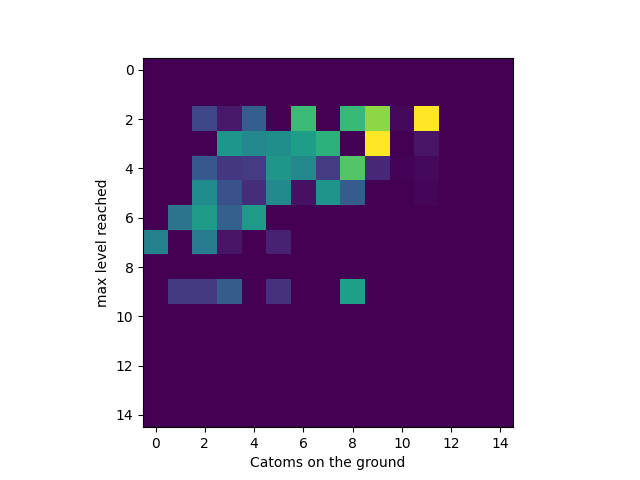
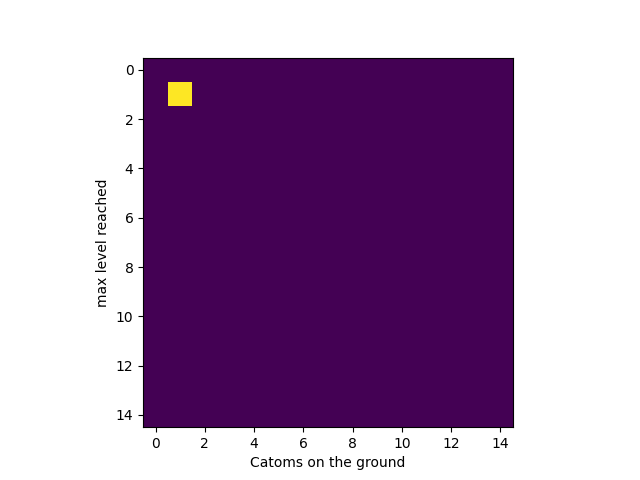
amas sans test

diff --git a/project/main.py b/project/main.py
@@ -1,3 +1,4 @@
+import math
 import socket
 import numpy as np
 import time
@@ -155,7 +156,9 @@ class Master:
             # TODO: ici, il faut lancer une itération d'entrainement, puis remplacer data par la matrice des poids du nouveau réseau à éval
             #data = self.generate_random_weights(2, 25, 125, 27, False)
             #data = self.generate_weights()
-            data,_ = self.map_elites.get_custom_individual(4, 6) # sert à récupérer un individu spécifique dans la map
+            #data,_ = self.map_elites.get_custom_individual(4, 6) # sert à récupérer un individu spécifique dans la map
+            data = self.map_elites.get_next_individual()
+
             # data = load_weights('logs/weights_error.log')
             
             self.send_data(connection, str(data.size).encode(), "SIZE")
@@ -188,6 +191,8 @@ class Master:
             print("Robot |", number_robot_level)
             print("Number of robots on base :", number_robot_level[0])
             print("Max height :", level[-1])
+            print("Number of amas", len(self.amas_robot(received_data)))
+            print("Amas", self.amas_robot(received_data))
 
             x_coord = min(level[-1],15)
             y_coord = min(number_robot_level[0],15)
@@ -220,16 +225,56 @@ class Master:
                     number_robot.append(0)
         
             number_robot[data_position[i][2] - 1] += 1
-
-
-        print("fin level : ", level)
         return level, number_robot
     
 
+    def distance(self, robot1, robot2):
+        return math.sqrt((robot1[0] - robot2[0])**2 + (robot1[1] - robot2[1])**2 + (robot1[2] - robot2[2])**2)
 
+    def voisin(self, robot_base, data_position) :
+        for robot in data_position :
+            if(self.distance(robot_base,robot) > math.sqrt(2)) :
+                return False
+            elif(abs(robot_base[0] - robot[0]) > 1 | abs(robot_base[1] - robot[1]) > 1 | abs(robot_base[2] - robot[2]) > 1):
+                return False
+            elif(robot_base[2] == robot[2] & self.distance(robot_base,robot) > 1) :
+                return False
+            elif(robot_base[2] != robot[2] & (robot_base[0] > robot[0] | robot_base[1] > robot[1])) :
+                return False
+            else :
+                return True
+
+    def amas_robot(self, data_position):
+        data = data_position.copy()
+        amas = []
+        while(data) :
+            construction_amas = []
+            robots_proches = []
+
+            if(not construction_amas) :
+                construction_amas.append(data[0])
+                for robot in data :
+                    if(self.voisin(construction_amas[0],robot)) :
+                        robots_proches.append(robot)
+                        data.remove(robot)
+                data.pop(0)
+            else :
+                for robot_proche in robots_proches :
+                    for robot in data :
+                        if(self.voisin(robot_proche,robot)) :
+                            robots_proches.append(robot)
+                            data.remove(robot)
+                    construction_amas.append(robot_proche)
+                    robots_proches.remove(robot_proche)
+
+            amas.append(construction_amas)
+        return amas
             
+
+
+
 if __name__ == "__main__":
     master = Master()
     # master.run_parallel(50) # ps ici les outputs sont mélangés, mais c'est normal (si vous voulez les voir dans l'ordre faite une boucle for avec master.run())
-    master.run(auto=False)
+    master.run(auto=True)
     
